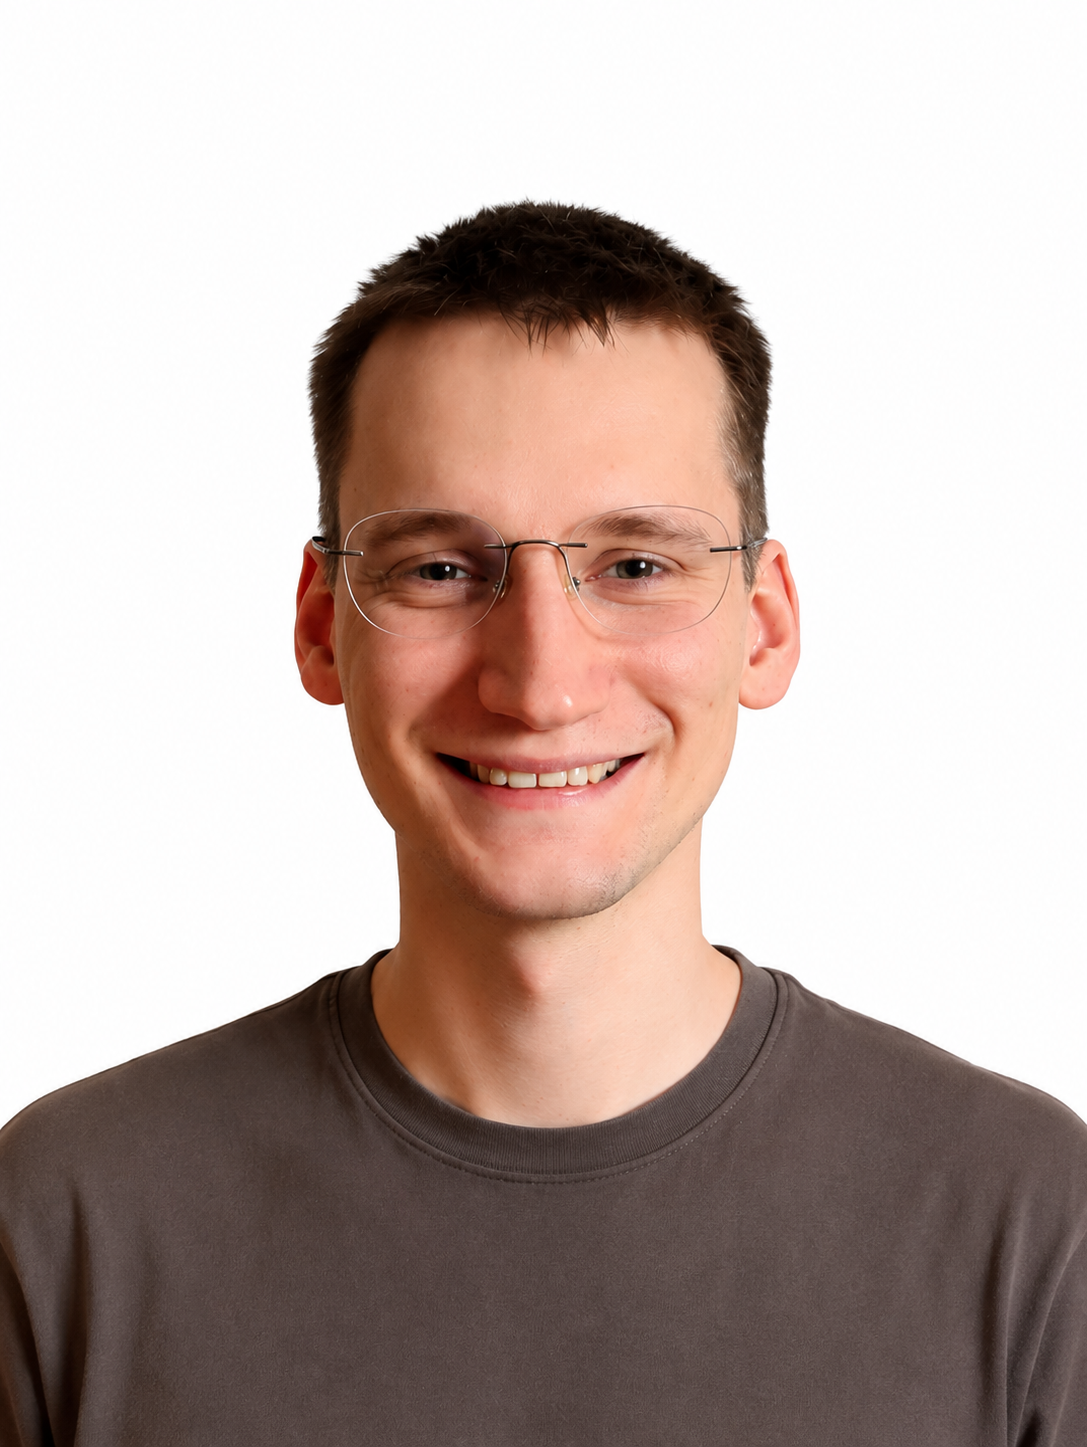
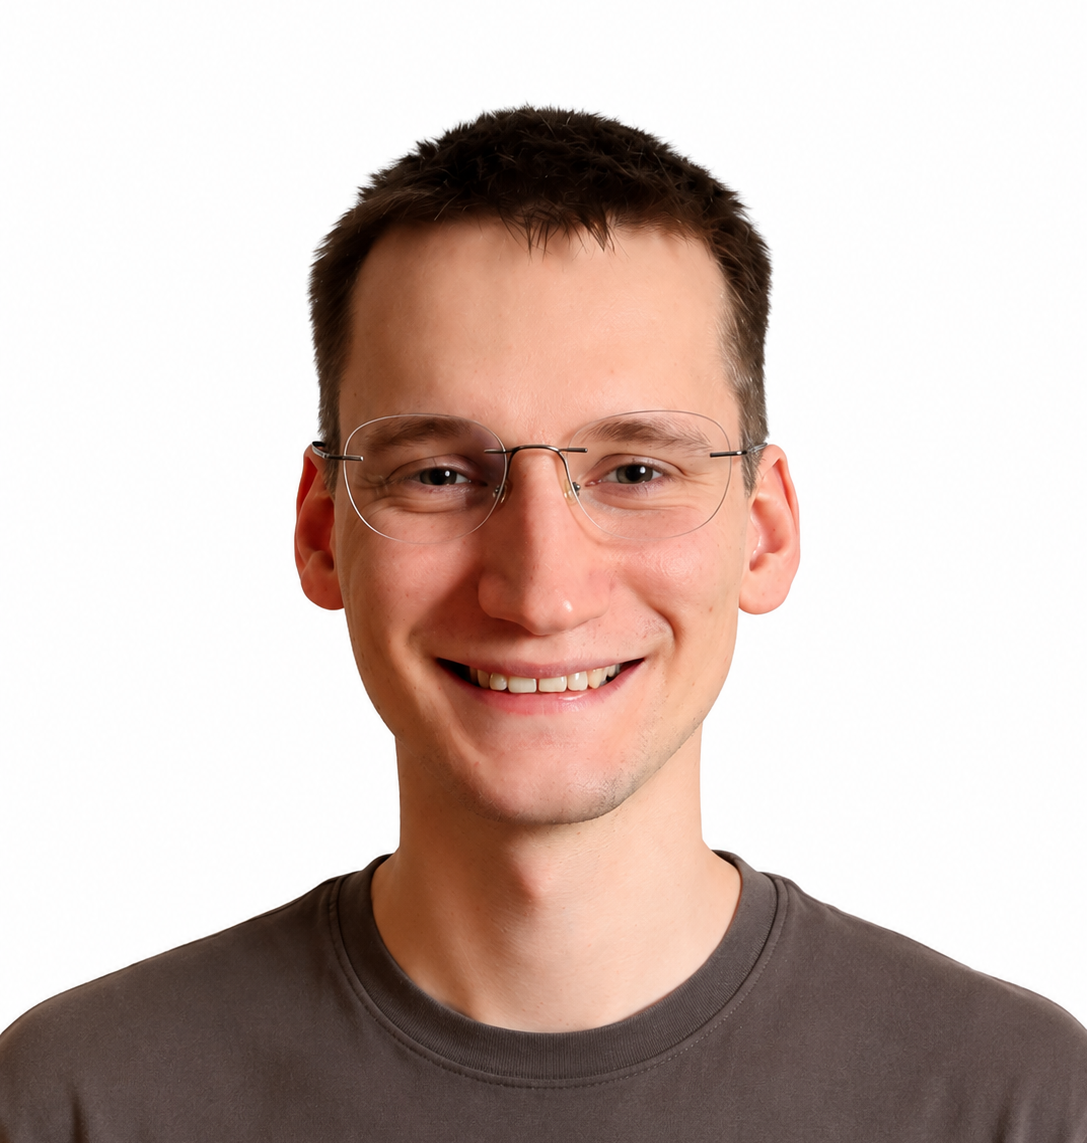
change picture

Changed region(s): [[0.0, 0.0919, 1.0, 1.0], [0.1214, 0.9493, 0.1518, 0.9799]]

diff --git a/themes/sumiya/static/css/main.css b/themes/sumiya/static/css/main.css
@@ -197,6 +197,10 @@ ul {
   /* padding-bottom: 20px; */
 }
 
+.home-content {
+  margin-left: 24px;
+}
+
 .header .profile_image {
   display: block;
   margin-left: auto;